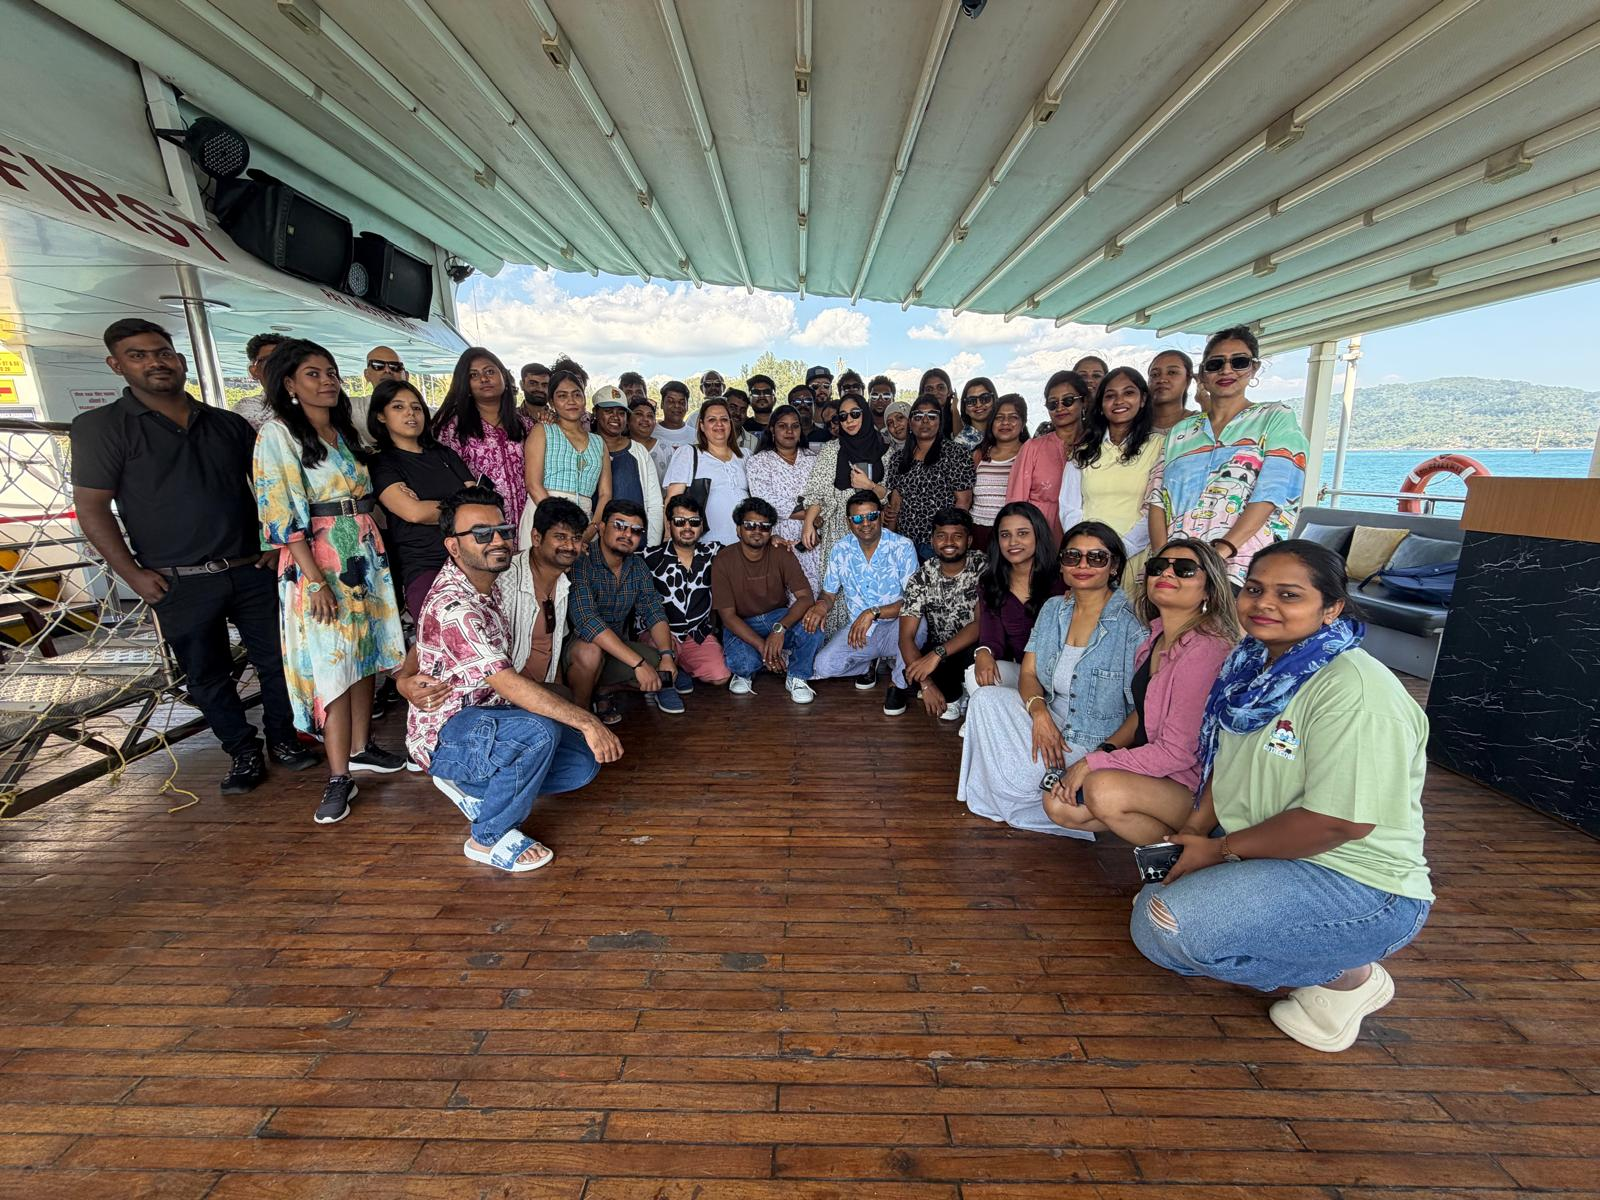
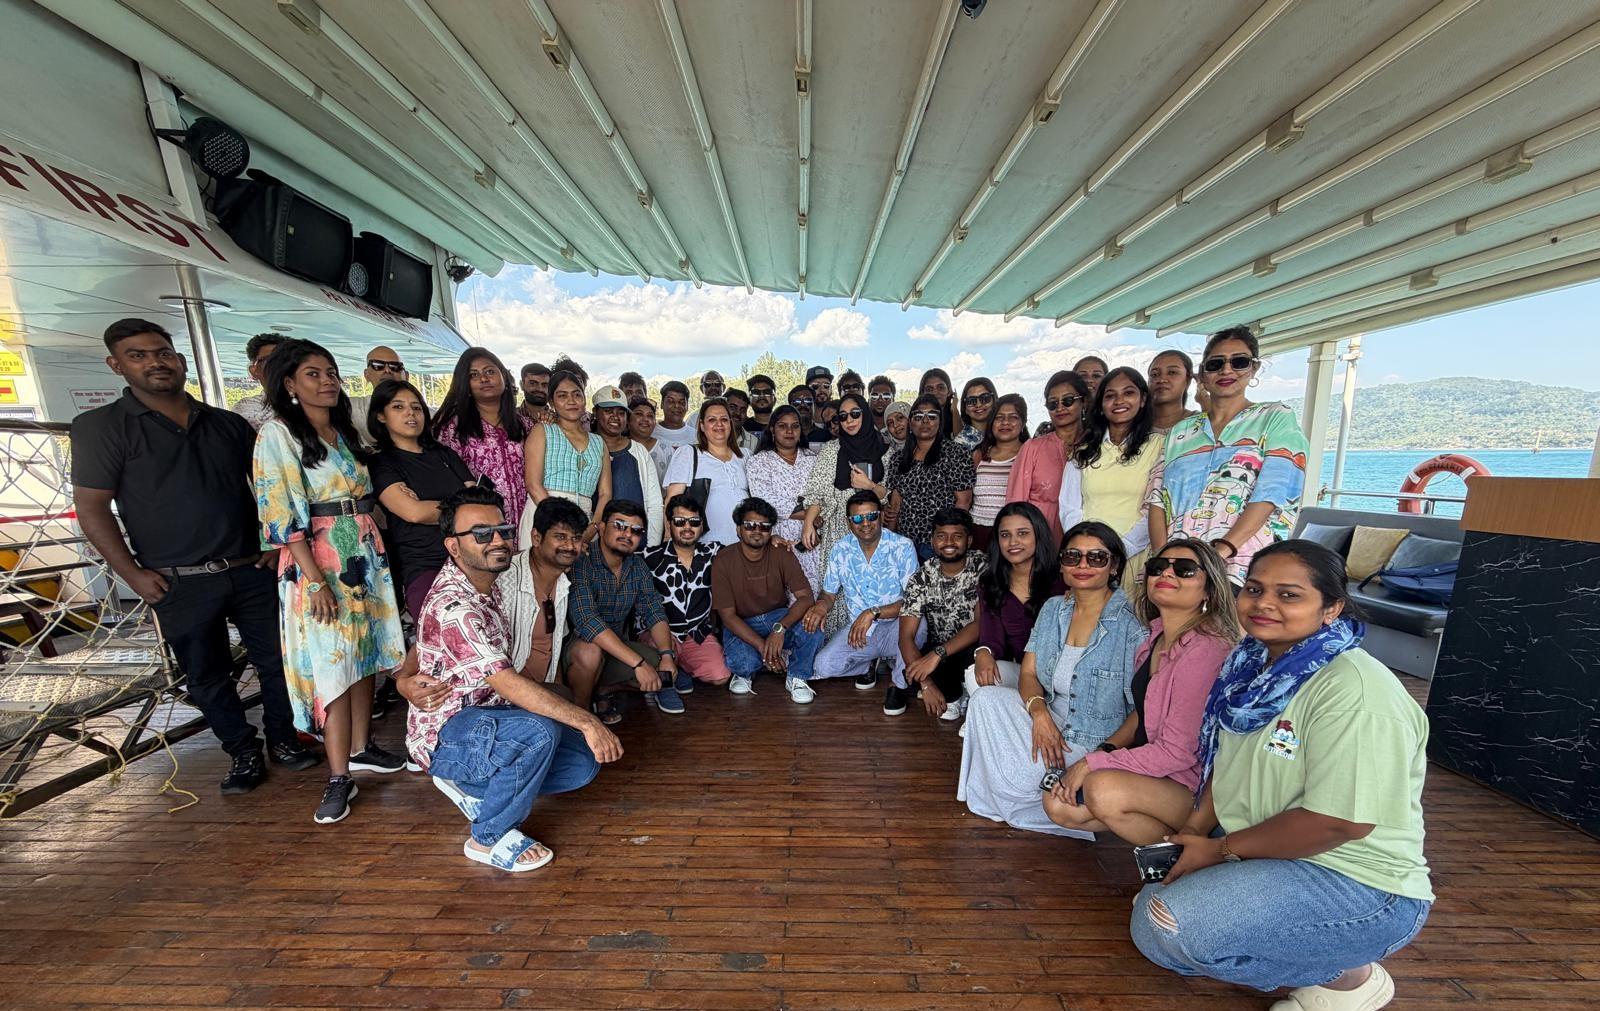
feat/added-press-release-link

diff --git a/src/app/news/page.tsx b/src/app/news/page.tsx
@@ -49,6 +49,7 @@ interface Article {
   accentColor: string;
   image?: StaticImageData;
   href: string;
+  pressReleaseUrl?: string;
 }
 
 const CATEGORY_COLORS: Record<ArticleCategory, string> = {
@@ -78,6 +79,8 @@ const ALL_ARTICLES: Article[] = [
     accentColor: "#FFBB00",
     image: GregArmsImg,
     href: "/news/greg-arms-strategic-advisor",
+    pressReleaseUrl:
+      "https://www.globenewswire.com/news-release/2026/06/04/3306783/0/en/evoltech-appoints-greg-arms-as-senior-strategic-advisor.html",
   },
   // ── Add new articles below — newest date wins featured ────────────────────
   {
@@ -182,9 +185,9 @@ export default function NewsPage() {
         <div className="max-w-7xl mx-auto">
           {isGregArmsFeatured ? (
             /* ── Premium hero banner ── */
-            <Link href={FEATURED.href} className="group block">
+            <div className="group block">
               <div
-                className="relative rounded-3xl overflow-hidden cursor-pointer transition-all duration-500 group-hover:shadow-[0_0_60px_rgba(76,150,215,0.25)] group-hover:scale-[1.005]"
+                className="relative rounded-3xl overflow-hidden transition-all duration-500 group-hover:shadow-[0_0_60px_rgba(76,150,215,0.25)] group-hover:scale-[1.005]"
                 style={{ minHeight: 540 }}
               >
                 {/* Dark navy base */}
@@ -226,9 +229,14 @@ export default function NewsPage() {
                   {/* LEFT — text */}
                   <div className="flex flex-col justify-center px-8 sm:px-12 py-12 lg:py-16">
                     {/* Category badge */}
-                    <div className="inline-flex w-fit items-center px-4 py-1.5 rounded-full border border-[#4C96D7] text-[#8DCAFF] text-[11px] font-bold tracking-[0.25em] uppercase mb-6">
+                    <a
+                      href={FEATURED.pressReleaseUrl}
+                      target="_blank"
+                      rel="noopener noreferrer"
+                      className="inline-flex w-fit items-center px-4 py-1.5 rounded-full border border-[#4C96D7] text-[#8DCAFF] text-[11px] font-bold tracking-[0.25em] uppercase mb-6 hover:bg-[#4C96D7]/10 transition-colors duration-200"
+                    >
                       Company News
-                    </div>
+                    </a>
 
                     {/* Headline */}
                     <div className="mb-6">
@@ -238,8 +246,11 @@ export default function NewsPage() {
                       >
                         Introducing
                       </h2>
-                      <h2
-                        className="font-black leading-[1.0] py-2"
+                      <a
+                        href={FEATURED.pressReleaseUrl}
+                        target="_blank"
+                        rel="noopener noreferrer"
+                        className="font-black leading-[1.0] py-2 block hover:opacity-80 transition-opacity duration-200"
                         style={{
                           fontSize: "clamp(3rem, 6vw, 5.5rem)",
                           background:
@@ -250,7 +261,7 @@ export default function NewsPage() {
                         }}
                       >
                         Greg Arms
-                      </h2>
+                      </a>
                     </div>
 
                     {/* Accent divider */}
@@ -274,7 +285,9 @@ export default function NewsPage() {
                     </p>
 
                     {/* CTA button — liquid glass */}
-                    <LiquidGlassButton />
+                    <Link href={FEATURED.href}>
+                      <LiquidGlassButton />
+                    </Link>
                   </div>
 
                   {/* RIGHT — quote card + portrait + icons */}
@@ -360,7 +373,7 @@ export default function NewsPage() {
                   </div>
                 </div>
               </div>
-            </Link>
+            </div>
           ) : (
             /* ── Standard gradient card ── */
             <Link href={FEATURED.href} className="group block">

diff --git a/src/data/eventDetailsConfig.ts b/src/data/eventDetailsConfig.ts
@@ -106,6 +106,8 @@ import {
   PongalCelebration9,
   PongalCelebration10,
   PongalCelebration11,
+  PongalCelebration12,
+  PongalCelebration13,
   Marathon4,
   Marathon2,
   Marathon3,
@@ -694,7 +696,6 @@ const rawEventDetailsConfig: RawEventDetail[] = [
     template: "template3",
     category: "internal",
     image: Cruise3,
-    bannerImage: EvoltechGroupV2,
     title: "2026 Team Meetup - Andaman Islands",
     description:
       "Our entire team escaped to the stunning Andaman Islands for an unforgettable 2026 offsite. Sun, sea, sand, and shared experiences helped us bond, recharge...",
@@ -743,7 +744,6 @@ const rawEventDetailsConfig: RawEventDetail[] = [
         AndamanTrip13,
         AndamanTrip12,
         Resort,
-
         Cruise,
         Cruise2,
         Cruise3,
@@ -752,7 +752,6 @@ const rawEventDetailsConfig: RawEventDetail[] = [
         AndamanTrip20,
         AndamanTrip21,
         AndamanTrip22,
-
         // AndamanEvent,
         AndamanTrip1,
         AndamanTrip2,
@@ -850,8 +849,8 @@ const rawEventDetailsConfig: RawEventDetail[] = [
     slug: "evoltech-pongal-celebration-2026",
     template: "template2",
     category: "internal",
-    showTitleBgImage: false,
-    image: PongalCelebration2,
+    // showTitleBgImage: false,
+    image: PongalCelebration5,
     title: "EvolTech Pongal Celebration 2026",
     description:
       "A vibrant celebration of harvest and heritage at our Chennai office, featuring traditional decor, festive food, and team festivities.",
@@ -887,6 +886,8 @@ const rawEventDetailsConfig: RawEventDetail[] = [
         PongalCelebration9,
         PongalCelebration10,
         PongalCelebration11,
+        PongalCelebration12,
+        PongalCelebration13,
       ],
     },
   },
@@ -947,8 +948,7 @@ const rawEventDetailsConfig: RawEventDetail[] = [
     slug: "chennai-marathon-run-for-our-national-heroes-2026",
     template: "template3",
     category: "internal",
-    showTitleBgImage: false,
-    image: Marathon1,
+    image: Marathon4,
     title: "Chennai Marathon - Run for our National Heroes",
     description:
       "The EvolTech team hit the streets of Chennai to run in honor of our national heroes, promoting fitness and gratitude.",
@@ -1330,7 +1330,6 @@ const rawEventDetailsConfig: RawEventDetail[] = [
     template: "template2",
     category: "internal",
     image: ThePuneTeam,
-    showTitleBgImage: false,
     title: "Pune Team Outing",
     description:
       "The EvolTech Pune team came together for a memorable outing — a day filled with laughter, great food, and the kind of connection that only happens when you step out of the office.",
@@ -1359,7 +1358,7 @@ const rawEventDetailsConfig: RawEventDetail[] = [
             "The team rounded off the day with a friendly bowling session — competitive, noisy, and full of memories. These are the moments that build the culture we are proud of.",
         },
       ],
-      images: [ThePuneTeam, BowlingWithTheTeam, LunchwithTheTeam],
+      images: [ThePuneTeam, BowlingWithTheTeam, DinnerWithTeam  ],
     },
   },
 ];

diff --git a/src/app/news/[slug]/ArticleDetail.tsx b/src/app/news/[slug]/ArticleDetail.tsx
@@ -403,15 +403,17 @@ export default function ArticleDetail({ article }: { article: NewsArticle }) {
             {/* Action buttons */}
             <div className="flex items-center gap-2">
               <ShareButton />
-              <a
-                href={`https://twitter.com/intent/tweet?text=${encodeURIComponent(article.title)}&url=${encodeURIComponent(`https://www.evoltechgroup.com/news/${article.slug}`)}`}
-                target="_blank"
-                rel="noopener noreferrer"
-                className="inline-flex items-center gap-2 px-4 py-2 rounded-full border border-white/10 text-[#C7E5FF]/70 text-xs font-medium hover:border-[#4C96D7]/40 hover:text-white transition-all duration-200"
-              >
-                <Share2 size={13} />
-                Share
-              </a>
+              {article.pressReleaseUrl && (
+                <a
+                  href={article.pressReleaseUrl}
+                  target="_blank"
+                  rel="noopener noreferrer"
+                  className="inline-flex items-center gap-2 px-4 py-2 rounded-full border border-[#FFBB00]/40 text-[#FFBB00] text-xs font-semibold hover:bg-[#FFBB00]/10 hover:border-[#FFBB00]/70 transition-all duration-200"
+                >
+                  <ExternalLink size={13} />
+                  View Press Release
+                </a>
+              )}
             </div>
           </motion.div>
         </motion.div>
@@ -428,8 +430,16 @@ export default function ArticleDetail({ article }: { article: NewsArticle }) {
           {article.bannerImage ? (
             /* Full-cover photo banner */
             <div
-              className="relative rounded-3xl overflow-hidden bg-[#040c22] w-full"
+              className={`relative rounded-3xl overflow-hidden bg-[#040c22] w-full${article.pressReleaseUrl ? " cursor-pointer group/banner" : ""}`}
               style={{ aspectRatio: "9 / 4" }}
+              onClick={() =>
+                article.pressReleaseUrl &&
+                window.open(
+                  article.pressReleaseUrl,
+                  "_blank",
+                  "noopener,noreferrer",
+                )
+              }
             >
               <Image
                 src={article.bannerImage}

diff --git a/src/assets/images/Events/EvoltechSpace/index.ts b/src/assets/images/Events/EvoltechSpace/index.ts
@@ -10,6 +10,8 @@ export { default as PongalCelebration8 } from "./Pongal4.jpeg";
 export { default as PongalCelebration9 } from "./Pongal5.jpeg";
 export { default as PongalCelebration10 } from "./Pongal6.jpeg";
 export { default as PongalCelebration11 } from "./Pongal7.jpeg";
+export { default as PongalCelebration12 } from "./Pongal8.jpg";
+export { default as PongalCelebration13 } from "./pongal9.jpg";
 
 // Christmas Celebration
 export { default as ChristmasCelebration1 } from "./Christmas Celebration 1.jpeg";
@@ -80,7 +82,6 @@ export { default as AndamanTrip20 } from "./AndamanTrip15.jpeg";
 export { default as AndamanTrip21 } from "./Andaman12.jpg";
 export { default as AndamanTrip22 } from "./AndamanTrip16.jpg";
 
-
 //moments with ceo
 export { default as MomentsWithCEO1 } from "./MomentsWithCeo.jpeg";
 export { default as MomentsWithCEO2 } from "./MomentsWithCeo1.jpeg";
@@ -91,12 +92,10 @@ export { default as MomentsWithCEO6 } from "./MomentsWithCeo5.jpeg";
 export { default as MomentsWithCEO7 } from "./MomentsWithCeo6.jpeg";
 export { default as MomentsWithCEO8 } from "./MomentsWithCeo7.jpg";
 
-
 //Pune Trip
 export { default as PuneTrip1 } from "./pune.jpeg";
 export { default as PuneTrip2 } from "./pune1.jpeg";
 export { default as PuneTrip3 } from "./pune2.jpeg";
-
 
 //Goa Trip
 export { default as GoaTrip1 } from "./Goa.jpeg";

diff --git a/src/data/newsData.ts b/src/data/newsData.ts
@@ -47,6 +47,8 @@ export interface NewsArticle {
   bannerImage?: StaticImageData;
   /** Small square-friendly image used in related-story thumbnails. Falls back to bannerImage. */
   coverImage?: StaticImageData;
+  /** Optional external press release URL shown as a button inside the article. */
+  pressReleaseUrl?: string;
   body: ContentBlock[];
   related: string[]; // slugs of related articles
 }
@@ -67,6 +69,8 @@ export const NEWS_ARTICLES: NewsArticle[] = [
     accentColor: "#FFBB00",
     bannerImage: GregArms,
     coverImage: GregArmsImg,
+    pressReleaseUrl:
+      "https://www.globenewswire.com/news-release/2026/06/04/3306783/0/en/evoltech-appoints-greg-arms-as-senior-strategic-advisor.html",
 
     body: [
       {
